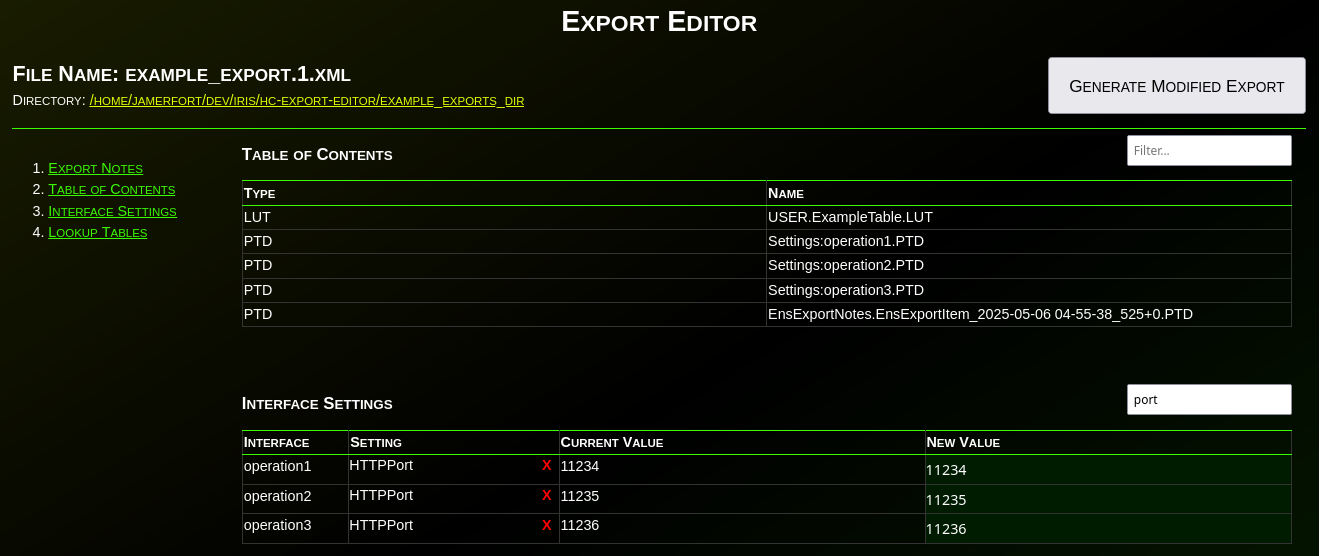
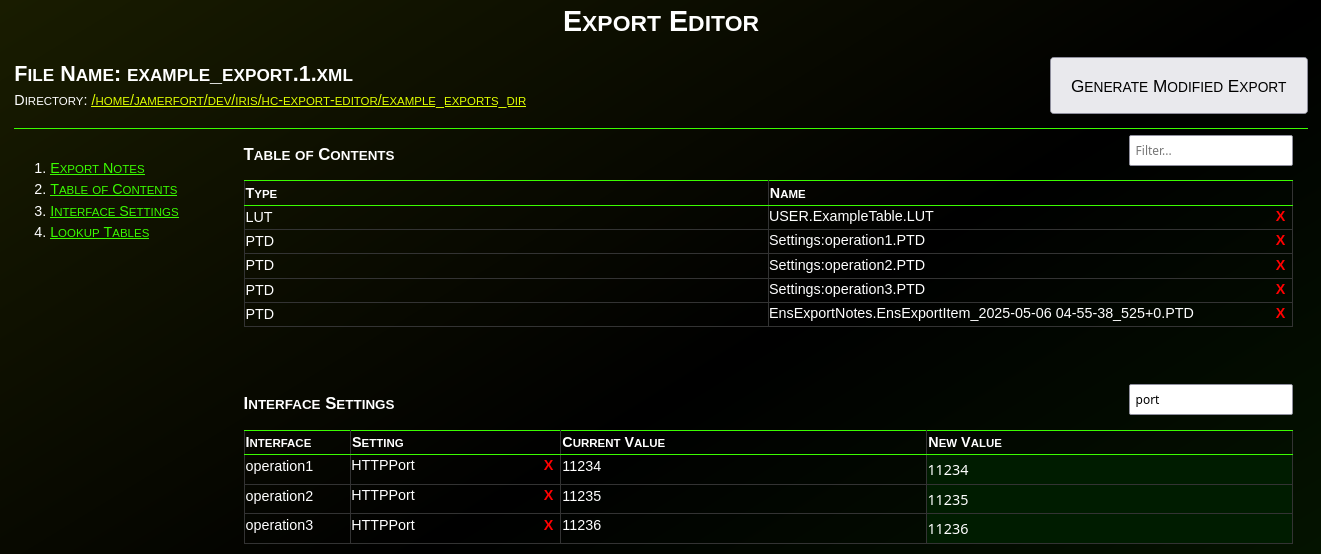
Update documentation

diff --git a/webapps/hc_export_editor/templates/help.html b/webapps/hc_export_editor/templates/help.html
@@ -5,7 +5,7 @@
 <h1>hc-export-editor</h1>
 <p>An InterSystems IRIS/Health Connect Production Export Editor</p>
 <p><img src="{{url_for('static', filename='./docs/images/export_editor.png')}}" alt="Image: Modify Export" /></p>
-<p>Have you ever needed to change an IP or port before deploying an interface to production?  What about modifying the value(s) in a lookup table before deploying?  Have you wanted to disable an interface before deploying?  What about adding a comment, category, or alert setting to an interface before deploying to production?</p>
+<p>Have you ever needed to change an IP or port before deploying an interface to production?  Needed to remove items from an export?  What about modifying the value(s) in a lookup table before deploying?  Have you wanted to disable an interface before deploying?  What about adding a comment, category, or alert setting to an interface before deploying to production?</p>
 <p>If you've ever needed to make any changes to an interface or lookup table before deploying to production, this <code>Export Editor</code> is for you!</p>
 <h3>InterSystems FHIR and Digital Health Interoperability Contest 2025</h3>
 <p>This library was originally created/published for the <a href="https://community.intersystems.com/post/intersystems-fhir-and-digital-health-interoperability-contest-2025">InterSystems FHIR and Digital Health Interoperability Contest 2025</a>.</p>
@@ -14,7 +14,8 @@
 <p>This tool allows you to:</p>
 <ul>
 <li>change any setting on an interface (whether a Business Service, Process, or Operation)</li>
-<li>modify any value in a lookup table.</li>
+<li>modify any value in a lookup table</li>
+<li>remove items from an export.</li>
 </ul>
 <h2>Prerequisites</h2>
 <ul>
@@ -160,7 +161,7 @@ zpm:USER&gt;install hc-export-editor
 <p>This page contains various sections, each with its own table and filter box.</p>
 <p>The filter box allows you to narrow down the display to only the rows you are interested in viewing or editing.</p>
 <p>Most tables have a <code>New Value</code> column that is editable.  Changing the values in this column will change the corresponding value in the generated, modified export.  Use the <code>tab</code> key to jump from editable cell to editable cell.</p>
-<p>Each Interface Setting can be removed from the export by clicking on the red <code>X</code> next to the setting names.</p>
+<p>Export Items, Interface Settings, and Lookup Table rows can be removed from the export by clicking on the red <code>X</code> next to item/setting/row.</p>
 <h4>Header Section</h4>
 <p>This section contains the file name of the export being modified and the directory that contains the export.</p>
 <p><img src="{{url_for('static', filename='./docs/images/header.png')}}" alt="Image: Modify Export - Header" /></p>
@@ -168,8 +169,8 @@ zpm:USER&gt;install hc-export-editor
 <h4>&quot;Export Notes&quot; Section</h4>
 <p>This section of the editor displays the settings related to the export, such as Production, Namespace, User, etc.  You can use the filter box to the top-right to search the list of export fields.</p>
 <p><img src="{{url_for('static', filename='./docs/images/notes.png')}}" alt="Image: Modify Export - Export Notes" /></p>
-<h4>&quot;Contents&quot; Section</h4>
-<p>This section of the editor displays the list of items included in the selected export.  You can use the filter box to the top-right to search the list of contents.  You can not currently edit the list of items in the export.</p>
+<h4>&quot;Table of Contents&quot; Section</h4>
+<p>This section of the editor displays the list of items included in the selected export.  You can use the filter box to the top-right to search the list of contents.  You can remove an item from the export by clicking the associated red <code>X</code>.</p>
 <p><img src="{{url_for('static', filename='./docs/images/contents.png')}}" alt="Image: Modify Export - Contents" /></p>
 <h4>&quot;Interface Settings&quot; Section</h4>
 <p>This section of the editor allows you to edit the various settings and attributes of any interfaces (Business Services, Processes, or Operations) included in the export.</p>

diff --git a/README.md b/README.md
@@ -3,7 +3,7 @@ An InterSystems IRIS/Health Connect Production Export Editor
 
 ![Image: Modify Export](./docs/images/export_editor.png)
 
-Have you ever needed to change an IP or port before deploying an interface to production?  What about modifying the value(s) in a lookup table before deploying?  Have you wanted to disable an interface before deploying?  What about adding a comment, category, or alert setting to an interface before deploying to production?
+Have you ever needed to change an IP or port before deploying an interface to production?  Needed to remove items from an export?  What about modifying the value(s) in a lookup table before deploying?  Have you wanted to disable an interface before deploying?  What about adding a comment, category, or alert setting to an interface before deploying to production?
 
 If you've ever needed to make any changes to an interface or lookup table before deploying to production, this `Export Editor` is for you!
 
@@ -16,7 +16,8 @@ This library was originally created/published for the [InterSystems FHIR and Dig
 
 This tool allows you to:
   - change any setting on an interface (whether a Business Service, Process, or Operation)
-  - modify any value in a lookup table.
+  - modify any value in a lookup table
+  - remove items from an export.
 
 ## Prerequisites
 - IRIS 2022.1+ (for Embedded Python support)
@@ -167,7 +168,7 @@ The filter box allows you to narrow down the display to only the rows you are in
 
 Most tables have a `New Value` column that is editable.  Changing the values in this column will change the corresponding value in the generated, modified export.  Use the `tab` key to jump from editable cell to editable cell.
 
-Each Interface Setting can be removed from the export by clicking on the red `X` next to the setting names.
+Export Items, Interface Settings, and Lookup Table rows can be removed from the export by clicking on the red `X` next to item/setting/row.
 
 #### Header Section
 This section contains the file name of the export being modified and the directory that contains the export.
@@ -181,8 +182,8 @@ This section of the editor displays the settings related to the export, such as 
 
 ![Image: Modify Export - Export Notes](./docs/images/notes.png)
 
-#### "Contents" Section
-This section of the editor displays the list of items included in the selected export.  You can use the filter box to the top-right to search the list of contents.  You can not currently edit the list of items in the export.
+#### "Table of Contents" Section
+This section of the editor displays the list of items included in the selected export.  You can use the filter box to the top-right to search the list of contents.  You can remove an item from the export by clicking the associated red `X`.
 
 ![Image: Modify Export - Contents](./docs/images/contents.png)
 
